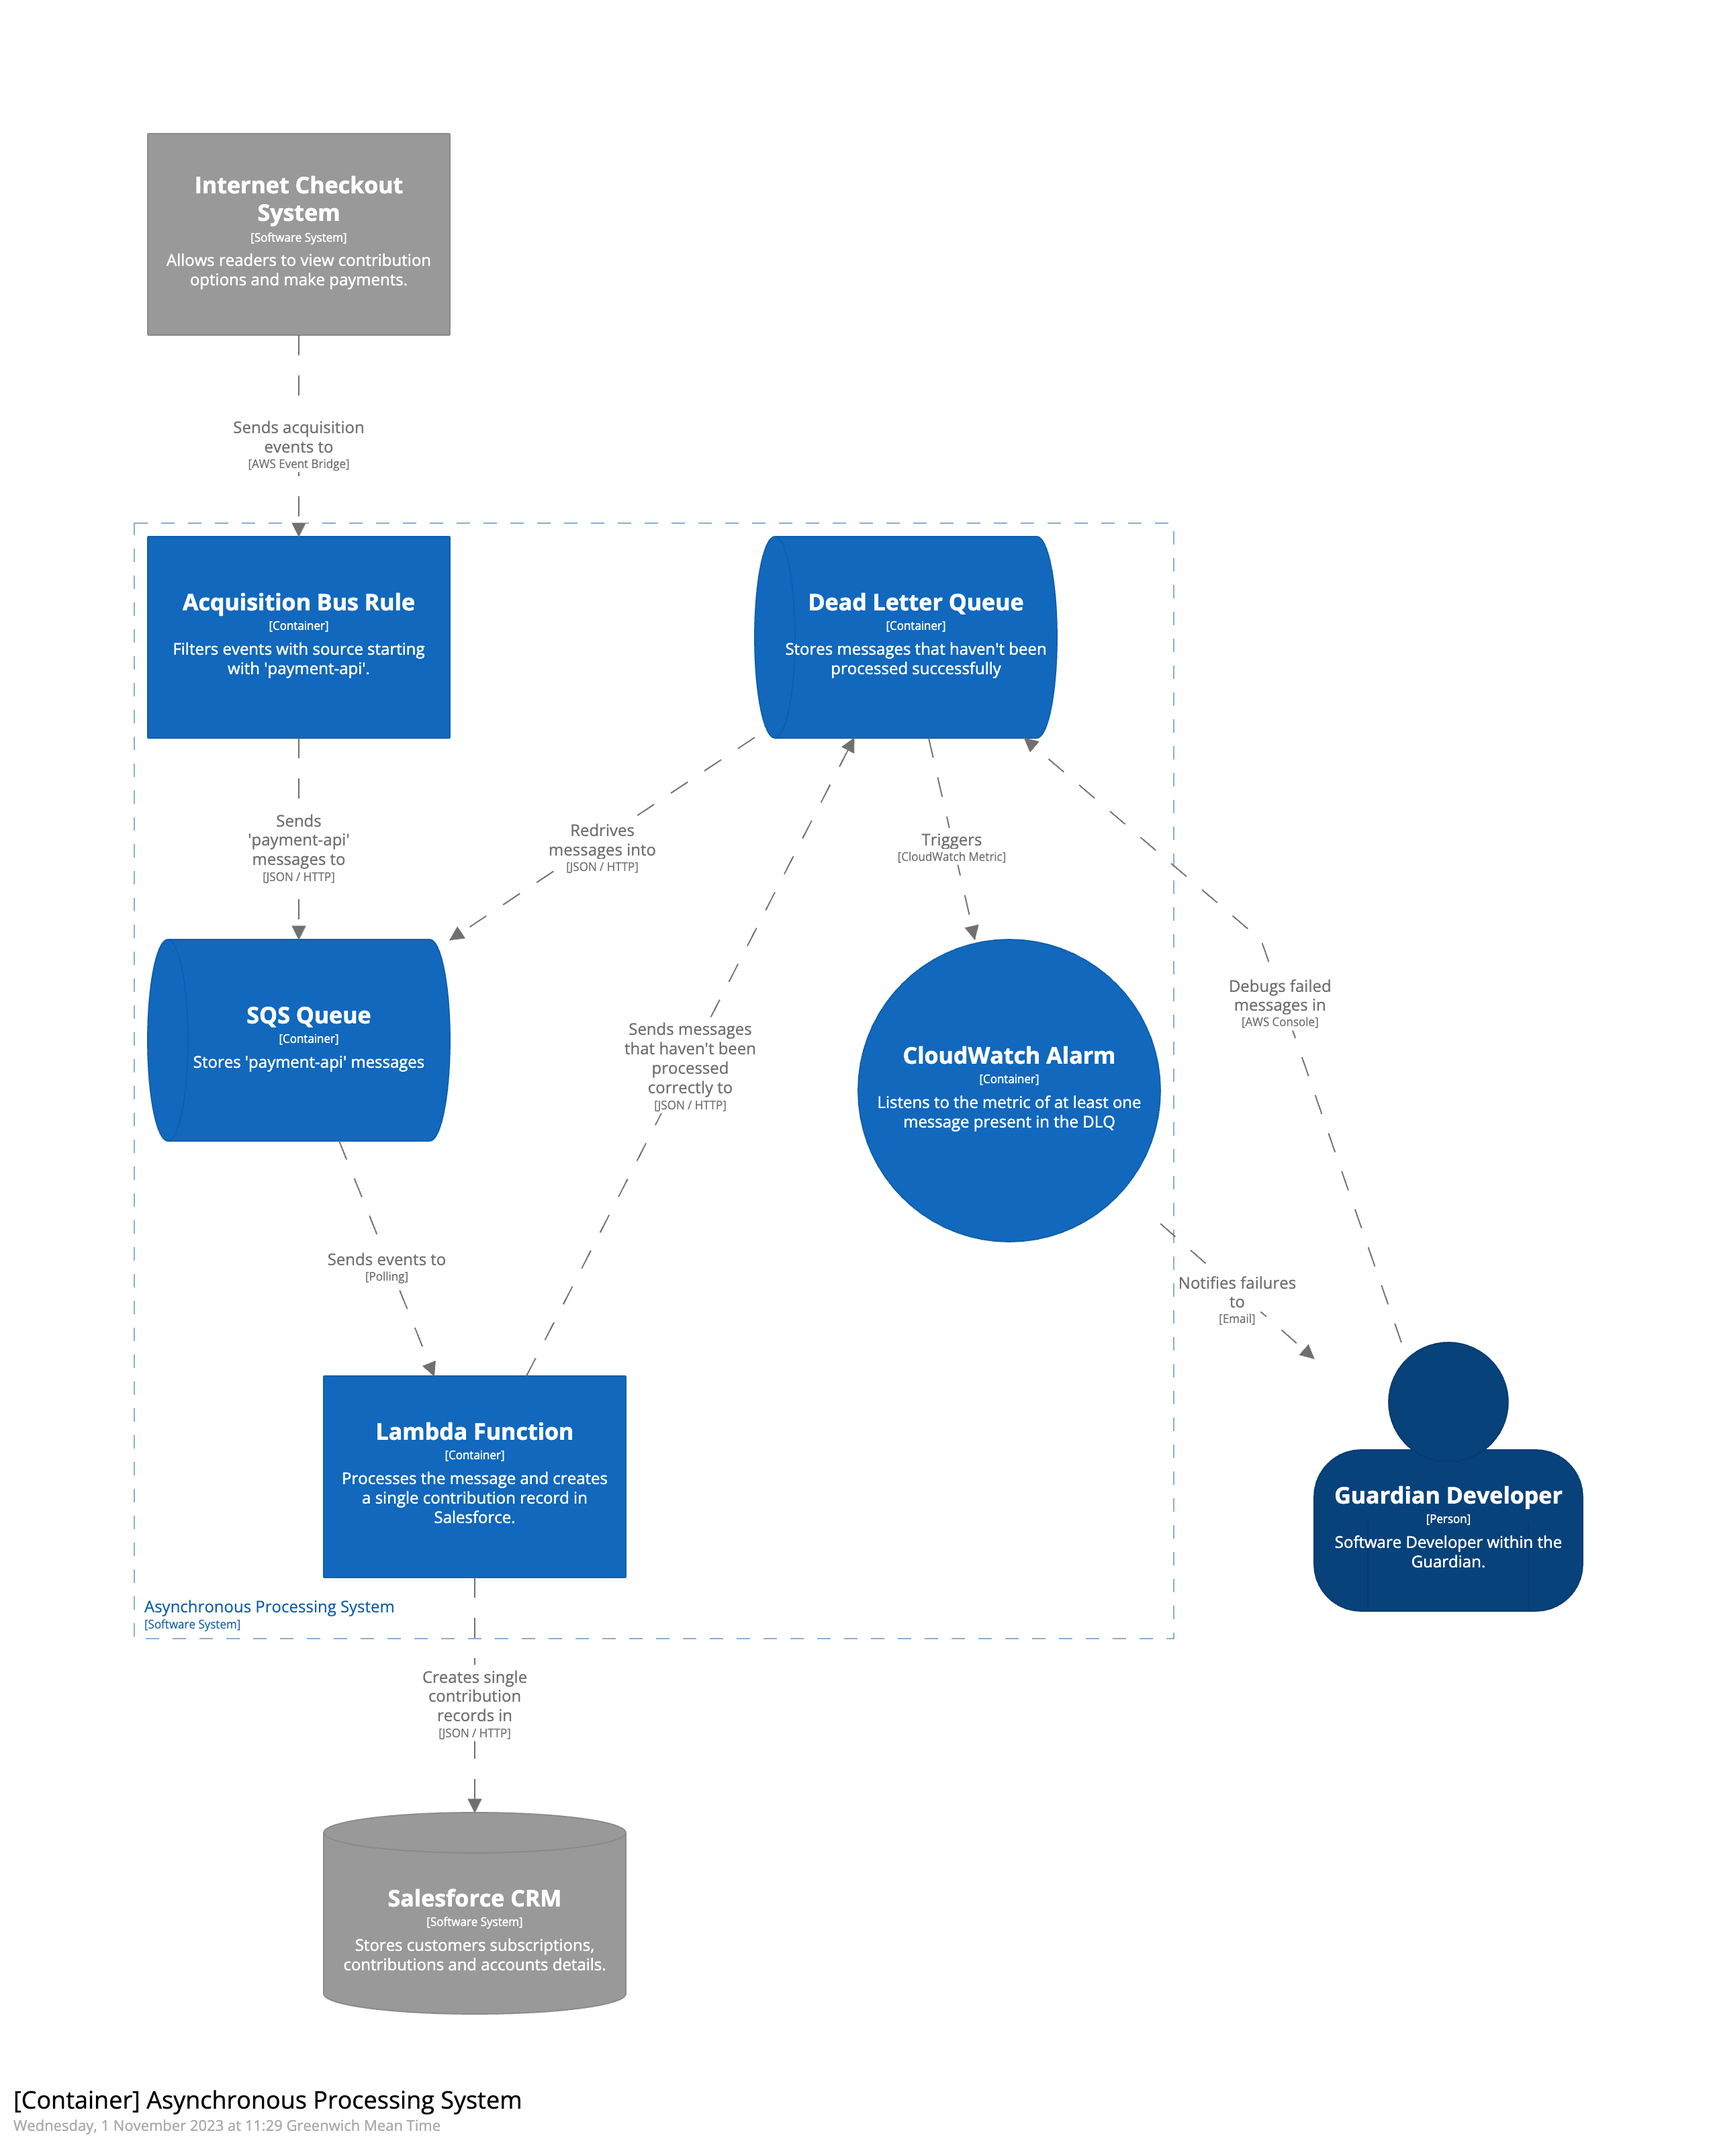
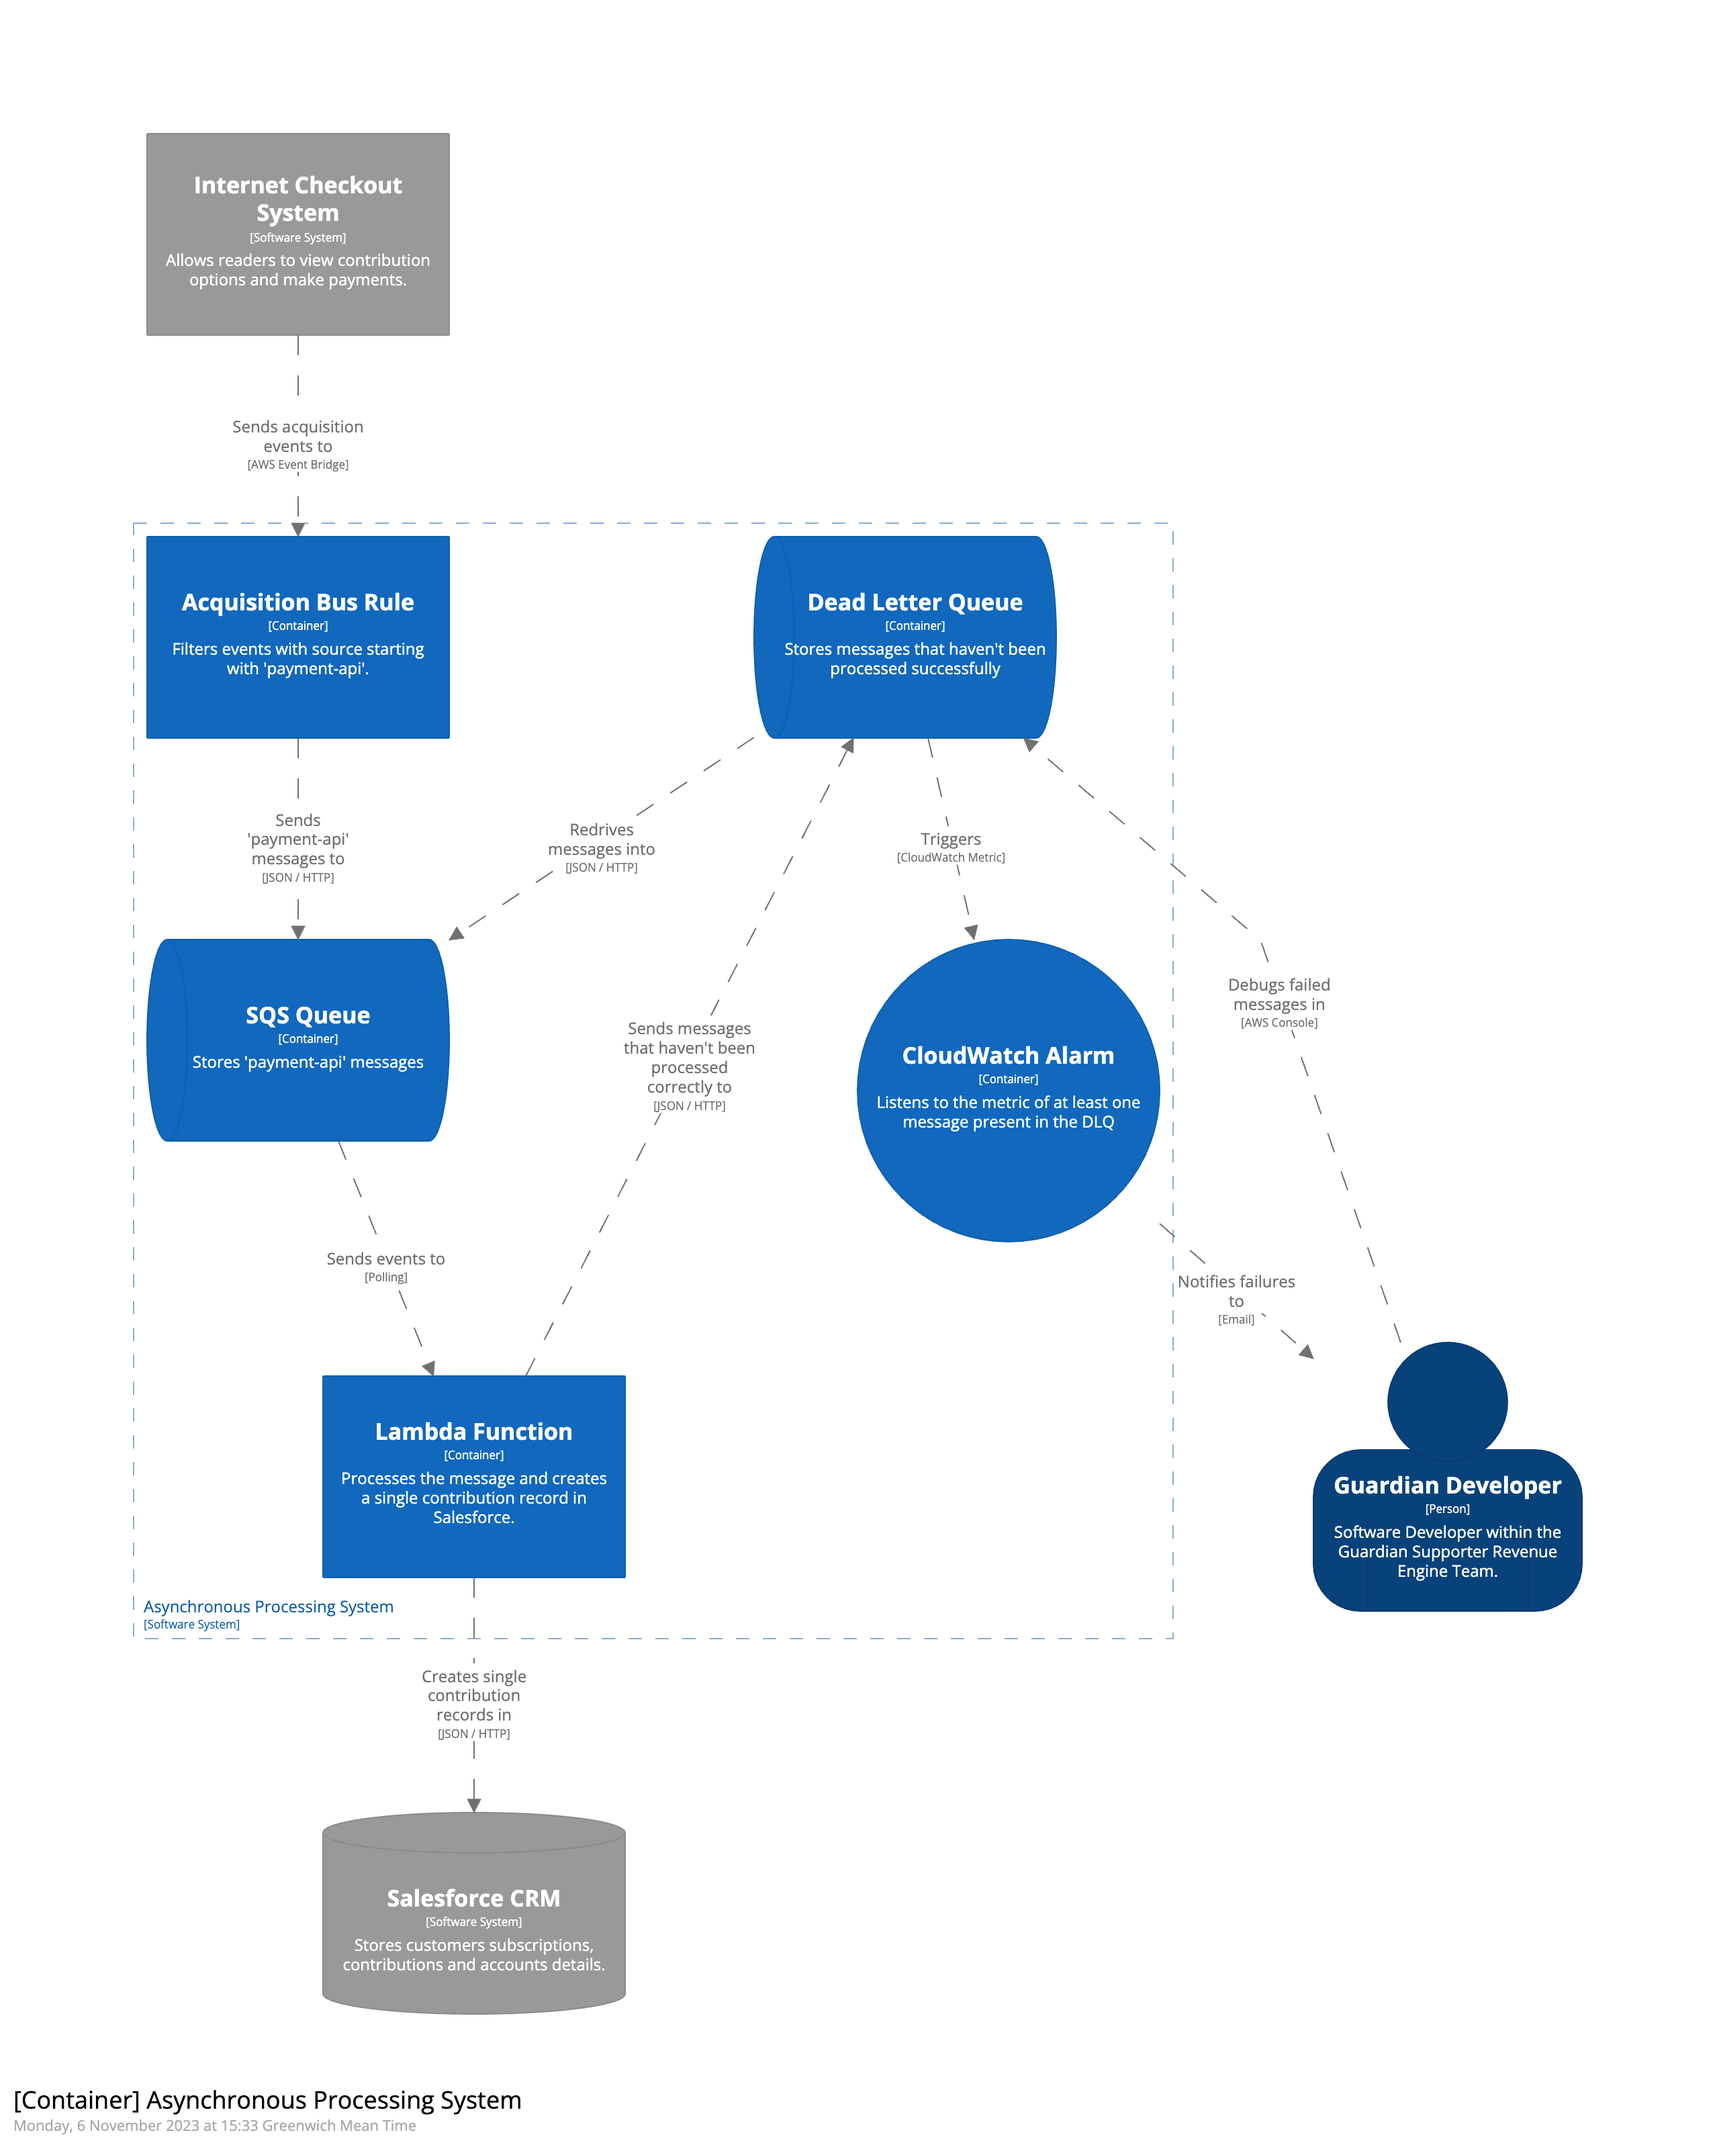
ops: send notification email if a message appears in the DLQ

diff --git a/cdk/lib/single-contribution-salesforce-writes.ts b/cdk/lib/single-contribution-salesforce-writes.ts
@@ -1,12 +1,16 @@
+import { GuAlarm } from '@guardian/cdk/lib/constructs/cloudwatch';
 import type { GuStackProps } from '@guardian/cdk/lib/constructs/core';
 import { GuStack } from '@guardian/cdk/lib/constructs/core';
 import { GuLambdaFunction } from '@guardian/cdk/lib/constructs/lambda';
 import { type App, Duration } from 'aws-cdk-lib';
+import { ComparisonOperator } from 'aws-cdk-lib/aws-cloudwatch';
 import { EventBus, Match, Rule } from 'aws-cdk-lib/aws-events';
 import { SqsQueue } from 'aws-cdk-lib/aws-events-targets';
 import { Effect, PolicyStatement, ServicePrincipal } from 'aws-cdk-lib/aws-iam';
 import { Runtime } from 'aws-cdk-lib/aws-lambda';
 import { SqsEventSource } from 'aws-cdk-lib/aws-lambda-event-sources';
+import { Topic } from 'aws-cdk-lib/aws-sns';
+import { EmailSubscription } from 'aws-cdk-lib/aws-sns-subscriptions';
 import { Queue } from 'aws-cdk-lib/aws-sqs';
 
 export const APP_NAME = 'single-contribution-salesforce-writes';
@@ -87,5 +91,27 @@ export class SingleContributionSalesforceWrites extends GuStack {
 		});
 
 		lambda.addToRolePolicy(getSecretValuePolicyStatement);
+
+		const snsTopic = new Topic(this, `${APP_NAME}-topic`, {
+			topicName: `${APP_NAME}-topic-${props.stage}`,
+		});
+
+		snsTopic.addSubscription(
+			new EmailSubscription('supporter.revenue.engine@guardian.co.uk'),
+		);
+
+		new GuAlarm(this, `${APP_NAME}-alarm`, {
+			app: APP_NAME,
+			snsTopicName: snsTopic.topicName,
+			alarmName: `${this.stage}: Failed to sync single contribution to Salesforce`,
+			alarmDescription: `Impact: customer service representative cannot see single contribution in Salesforce. Fix: check logs for lambda ${lambda.functionName}`,
+			metric: deadLetterQueue
+				.metric('ApproximateNumberOfMessagesVisible')
+				.with({ statistic: 'Sum', period: Duration.hours(1) }),
+			comparisonOperator: ComparisonOperator.GREATER_THAN_THRESHOLD,
+			threshold: 0,
+			evaluationPeriods: 24,
+			actionsEnabled: this.stage === 'PROD',
+		});
 	}
 }
